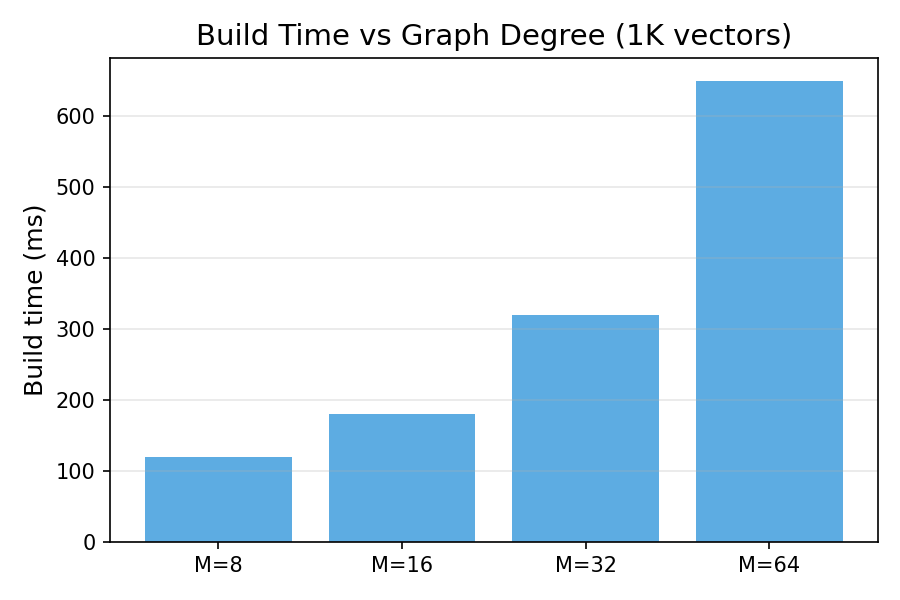
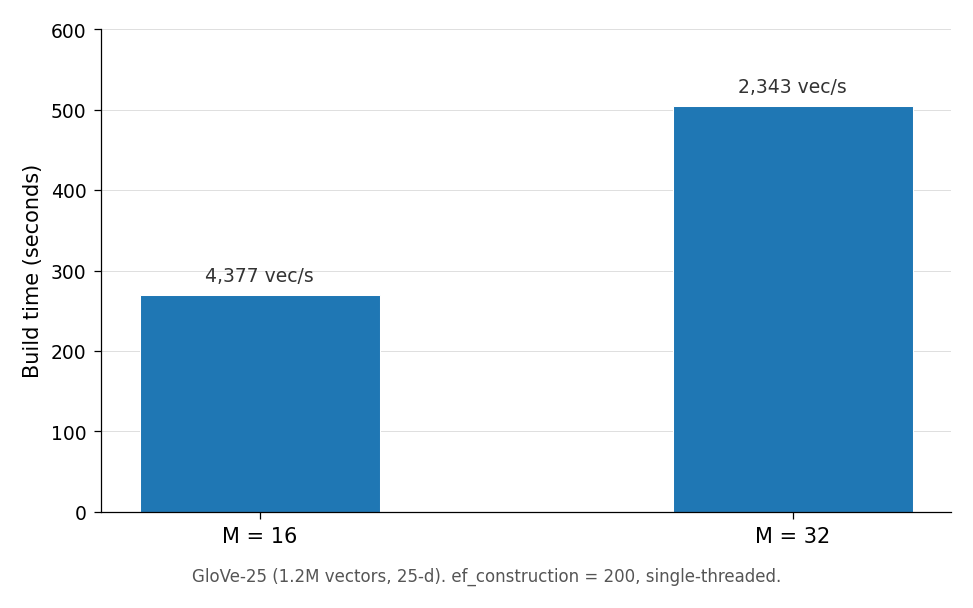
vicinity: regenerate README plots with real GloVe-25 benchmark data
Replace toy synthetic plots with distill.pub-style figures using actual
GloVe-25 (1.2M vectors, 25-d) benchmark results:
- recall_vs_ef: two M values (16, 32) showing recall saturation curve
- build_time_vs_m: real build times with throughput annotations
- memory_scaling: theoretical memory for two dimensionalities (25, 128)
  with shaded fill distinguishing raw vectors from graph overhead

Add self-contained PEP 723 generator script at doc/plots/generate_plots.py.

diff --git a/doc/plots/generate_plots.py b/doc/plots/generate_plots.py
@@ -1,0 +1,211 @@
+# /// script
+# requires-python = ">=3.11"
+# dependencies = ["matplotlib>=3.8"]
+# ///
+"""
+Generate README plots for vicinity HNSW benchmarks.
+
+Data sources:
+  - doc/benchmark-results.md (GloVe-25, 1.2M vectors, 25 dims, cosine)
+  - Theoretical memory formulas: raw = N*D*4, graph ~ N*M*4*avg_layers
+"""
+
+from pathlib import Path
+
+import matplotlib.pyplot as plt
+import matplotlib.ticker as ticker
+import numpy as np
+
+OUT = Path(__file__).parent
+
+# ---------------------------------------------------------------------------
+# Style: distill.pub-inspired -- white background, minimal chrome, thin spines
+# ---------------------------------------------------------------------------
+COLORS = {
+    "m16": "#1f77b4",  # muted blue
+    "m32": "#d62728",  # muted red
+    "raw": "#aec7e8",  # light blue (stacked area)
+    "graph": "#1f77b4",  # blue (stacked area)
+    "total": "#333333",  # dark grey for total line
+}
+
+
+def apply_style(ax):
+    """Minimal distill.pub-like axes."""
+    ax.spines["top"].set_visible(False)
+    ax.spines["right"].set_visible(False)
+    ax.spines["left"].set_linewidth(0.6)
+    ax.spines["bottom"].set_linewidth(0.6)
+    ax.tick_params(width=0.6, labelsize=9)
+    ax.grid(axis="y", linewidth=0.3, color="#cccccc")
+    ax.set_axisbelow(True)
+
+
+# ===================================================================
+# Plot 1: Recall@10 vs ef_search  (GloVe-25, M=16 and M=32)
+# ===================================================================
+# Real data from doc/benchmark-results.md
+ef_vals = np.array([10, 20, 50, 100, 200, 400])
+recall_m16 = np.array([58.0, 70.4, 83.1, 89.9, 94.3, 96.8])
+recall_m32 = np.array([72.8, 83.1, 92.1, 96.2, 98.3, 99.2])
+
+fig, ax = plt.subplots(figsize=(6.5, 3.8), dpi=150)
+apply_style(ax)
+
+ax.plot(
+    ef_vals,
+    recall_m16,
+    "o-",
+    color=COLORS["m16"],
+    markersize=5,
+    linewidth=1.5,
+    label="M = 16",
+)
+ax.plot(
+    ef_vals,
+    recall_m32,
+    "s-",
+    color=COLORS["m32"],
+    markersize=5,
+    linewidth=1.5,
+    label="M = 32",
+)
+ax.axhline(95, color="#999999", linewidth=0.8, linestyle="--", zorder=0)
+ax.text(405, 95.6, "95%", fontsize=8, color="#999999", va="bottom")
+
+ax.set_xlabel("ef_search", fontsize=10)
+ax.set_ylabel("Recall@10 (%)", fontsize=10)
+ax.set_xlim(0, 430)
+ax.set_ylim(50, 100)
+ax.legend(fontsize=9, frameon=False)
+
+fig.text(
+    0.5,
+    -0.02,
+    "GloVe-25 (1.2M vectors, 25-d, cosine). Higher M gives better recall "
+    "at each ef_search budget.",
+    ha="center",
+    fontsize=8,
+    color="#555555",
+)
+
+fig.tight_layout()
+fig.savefig(OUT / "recall_vs_ef.png", bbox_inches="tight", pad_inches=0.15)
+plt.close(fig)
+print(f"  wrote {OUT / 'recall_vs_ef.png'}")
+
+
+# ===================================================================
+# Plot 2: Build time vs M  (GloVe-25, 1.2M vectors)
+# ===================================================================
+# Real data from doc/benchmark-results.md
+m_vals = [16, 32]
+build_secs = [270, 505]  # seconds
+vecs_per_sec = [4377, 2343]
+
+fig, ax = plt.subplots(figsize=(6.5, 3.8), dpi=150)
+apply_style(ax)
+
+bar_x = np.arange(len(m_vals))
+bars = ax.bar(
+    bar_x, build_secs, width=0.45, color=COLORS["m16"], edgecolor="white", linewidth=0.5
+)
+
+# Annotate with throughput
+for i, (b, vps) in enumerate(zip(bars, vecs_per_sec)):
+    ax.text(
+        b.get_x() + b.get_width() / 2,
+        b.get_height() + 12,
+        f"{vps:,} vec/s",
+        ha="center",
+        va="bottom",
+        fontsize=9,
+        color="#333333",
+    )
+
+ax.set_xticks(bar_x)
+ax.set_xticklabels([f"M = {m}" for m in m_vals], fontsize=10)
+ax.set_ylabel("Build time (seconds)", fontsize=10)
+ax.set_ylim(0, 600)
+
+fig.text(
+    0.5,
+    -0.02,
+    "GloVe-25 (1.2M vectors, 25-d). ef_construction = 200, single-threaded.",
+    ha="center",
+    fontsize=8,
+    color="#555555",
+)
+
+fig.tight_layout()
+fig.savefig(OUT / "build_time_vs_m.png", bbox_inches="tight", pad_inches=0.15)
+plt.close(fig)
+print(f"  wrote {OUT / 'build_time_vs_m'}")
+
+
+# ===================================================================
+# Plot 3: Memory scaling  (theoretical, dim=25 to match GloVe-25)
+# ===================================================================
+# Formula: raw vectors = N * D * 4 bytes (f32)
+#          graph edges ~ N * M * 2 * 4 bytes (M neighbors per node, bidirectional,
+#                        u32 ids). Layer overhead adds ~15-20% on top; we use 1.2x.
+# We show dim=25 (GloVe) and dim=128 (common embedding dim) side by side.
+
+N = np.array([1_000, 10_000, 100_000, 500_000, 1_000_000, 2_000_000])
+M = 16
+GRAPH_FACTOR = 1.2  # accounts for multi-layer overhead
+
+
+def memory_mb(n, dim, m):
+    raw = n * dim * 4  # vector storage
+    graph = n * m * 2 * 4 * GRAPH_FACTOR  # neighbor lists
+    return raw / 1e6, graph / 1e6
+
+
+fig, ax = plt.subplots(figsize=(6.5, 3.8), dpi=150)
+apply_style(ax)
+
+for dim, color, marker, ls in [
+    (25, COLORS["m16"], "o", "-"),
+    (128, COLORS["m32"], "s", "--"),
+]:
+    raw, graph = memory_mb(N, dim, M)
+    total = raw + graph
+    ax.plot(
+        N,
+        total,
+        f"{marker}{ls}",
+        color=color,
+        markersize=5,
+        linewidth=1.5,
+        label=f"dim={dim} (total)",
+    )
+    # Show raw vectors as lighter fill
+    ax.fill_between(N, 0, raw, alpha=0.12, color=color)
+    ax.plot(N, raw, ls, color=color, linewidth=0.6, alpha=0.5)
+
+ax.set_xscale("log")
+ax.set_yscale("log")
+ax.set_xlabel("Number of vectors", fontsize=10)
+ax.set_ylabel("Memory (MB)", fontsize=10)
+ax.xaxis.set_major_formatter(
+    ticker.FuncFormatter(
+        lambda x, _: f"{x / 1e6:.0f}M" if x >= 1e6 else f"{x / 1e3:.0f}K"
+    )
+)
+ax.legend(fontsize=9, frameon=False)
+
+fig.text(
+    0.5,
+    -0.02,
+    "Theoretical memory (M = 16). Shaded region = raw vectors; "
+    "gap to line = graph overhead.",
+    ha="center",
+    fontsize=8,
+    color="#555555",
+)
+
+fig.tight_layout()
+fig.savefig(OUT / "memory_scaling.png", bbox_inches="tight", pad_inches=0.15)
+plt.close(fig)
+print(f"  wrote {OUT / 'memory_scaling.png'}")

diff --git a/README.md b/README.md
@@ -79,8 +79,8 @@ Larger values usually increase recall, at the cost of query time.
 </p>
 
 Notes:
-- This plot is from `vicinity`’s bundled “quick” profile (it’s meant to show the *shape* of the curve).
-- It does **not** justify a universal claim like “ef_search=50–100 gives >95% recall” for all datasets.
+- Data from GloVe-25 (1.2M vectors, 25-d, cosine). See `doc/benchmark-results.md` for full numbers.
+- Results are dataset-specific; do **not** assume these recall values generalize to other distributions.
 
 Higher `ef_search` typically improves recall and increases query time. Start around `ef_search=50-100`
 and measure recall@k vs latency for your dataset.
@@ -98,8 +98,8 @@ Higher `M` generally improves recall, but increases build time and memory.
 </p>
 
 Notes:
-- These plots are for the labeled settings (e.g. 1K vectors for build-time; dim=128, M=16 for memory).
-- Treat them as *sanity checks*, not as a stable performance contract.
+- Build-time data from GloVe-25 (1.2M vectors). Memory plot is theoretical (formula: N*D*4 + N*M*2*4*1.2).
+- Treat these as reference points, not a stable performance contract.
 
 ## Distance semantics (current behavior)
 
